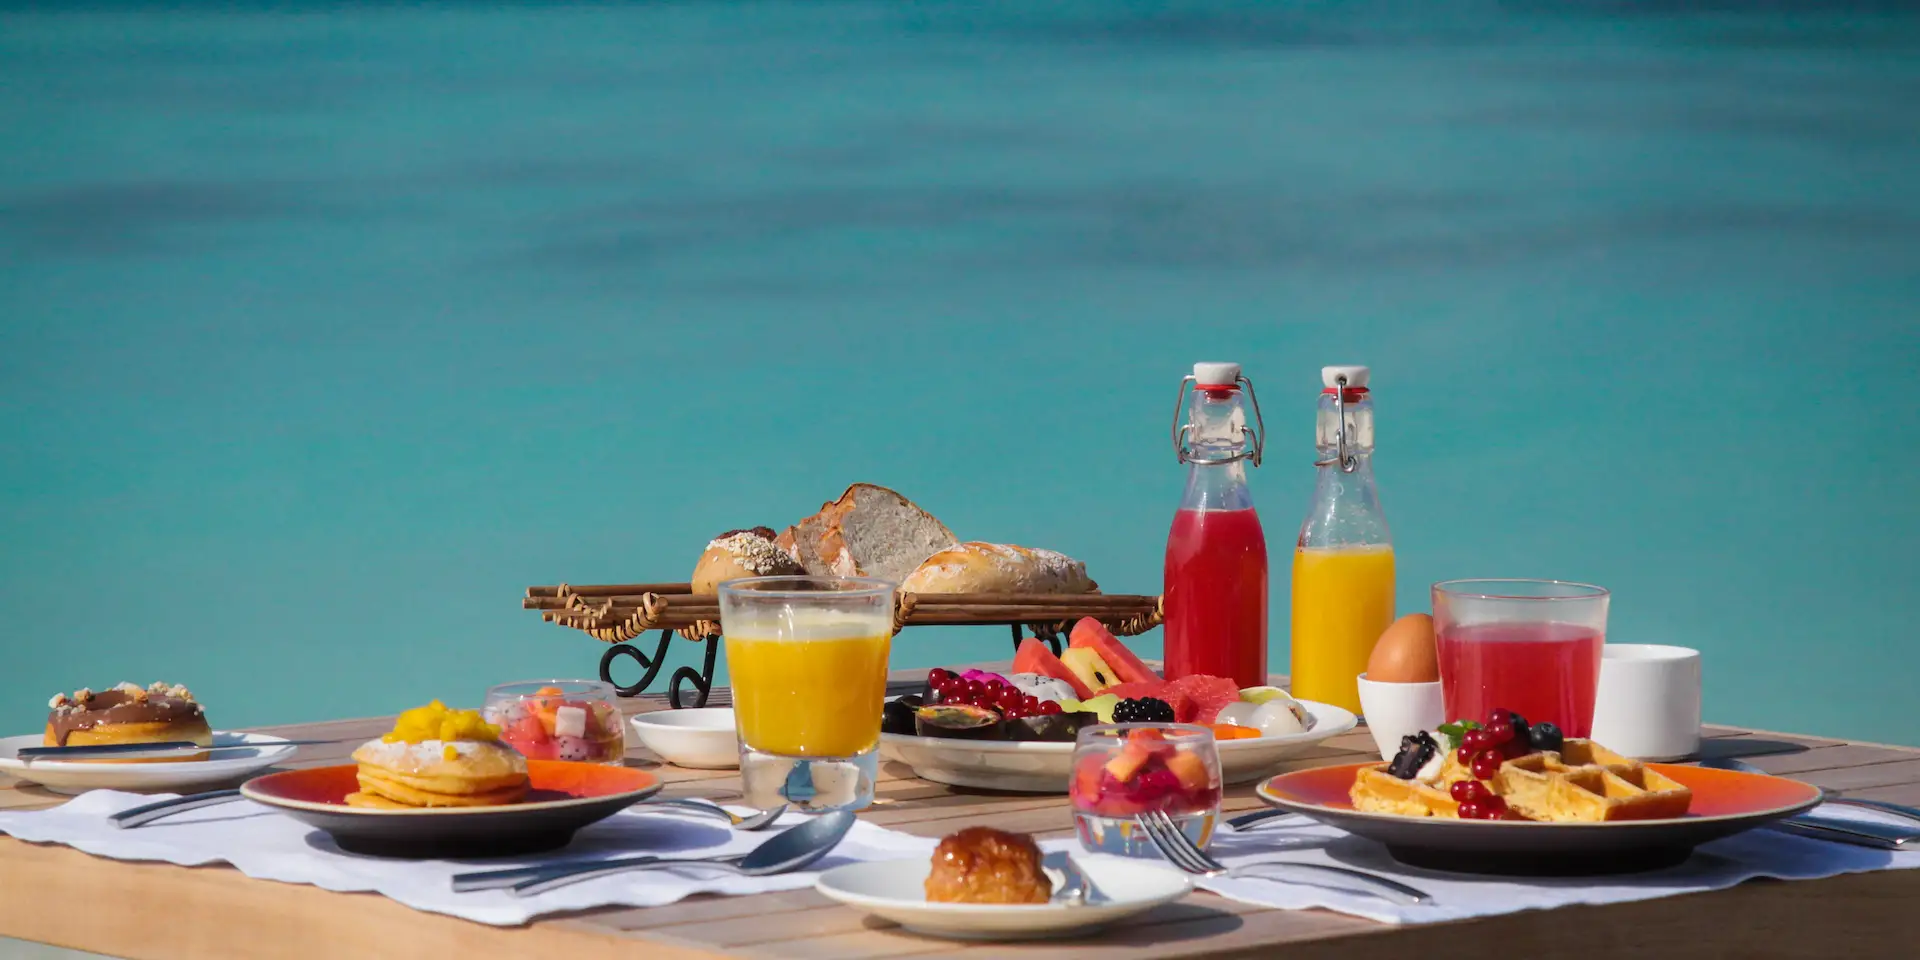
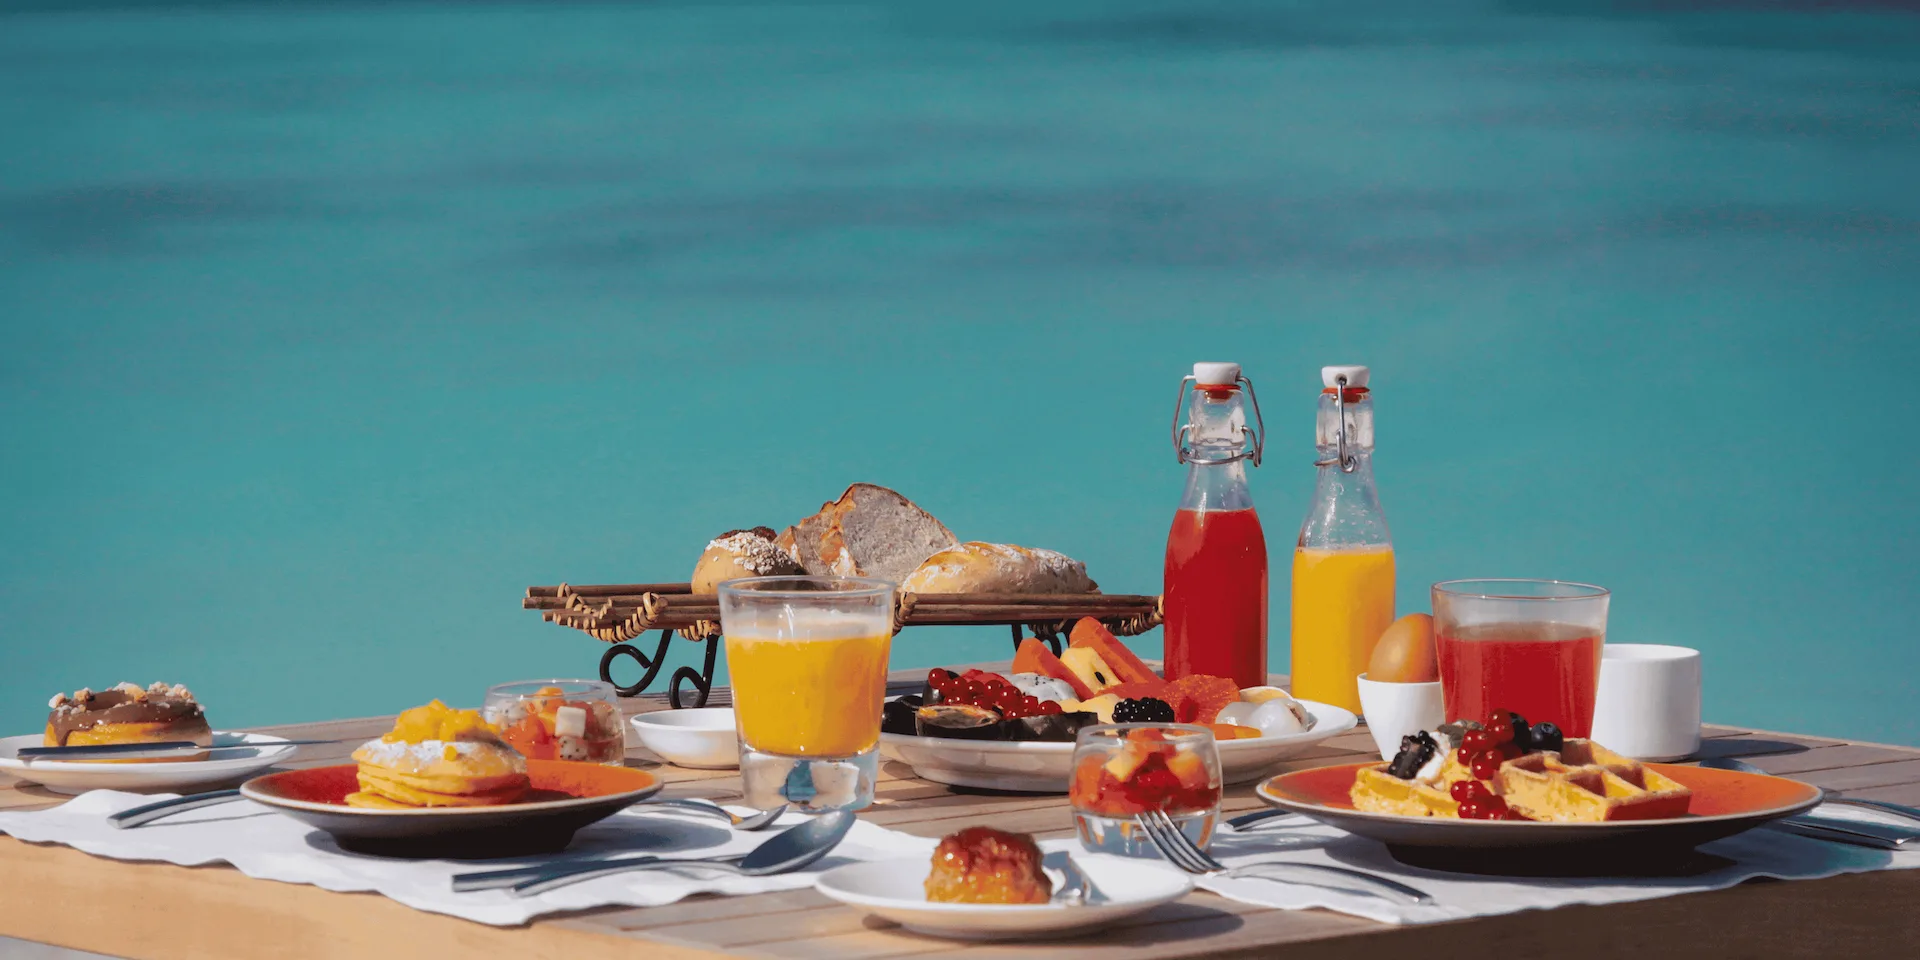
changes img

diff --git a/app/data/destinationData.ts b/app/data/destinationData.ts
@@ -343,7 +343,7 @@ export const DESTINATIONS: Destination[] = [
     slug: "japan",
     title: "Not Just Japan. Your Balance of Old and New.",
     subtitle: "Cultural Wonders",
-    heroImage: "/images/dest/Japan DP.webp",
+    heroImage: "/images/dest/Japan Cover.webp",
     description:
 "Japan feels vast, layered, impossible to decode alone. The language. The etiquette. The endless options. We translate it all.\n We design Japan journeys that balance ancient ritual with modern wonder. Private tea ceremonies in Kyoto temples tourists never find. Omakase at sushi counters where reservations are nearly impossible. Ryokans where your kaiseki meal is art. Guides who explain not just what you're seeing, but why it matters. Whether you're timing it for cherry blossoms, seeking autumn's fiery maples, traveling as a family, or going solo to truly absorb the culture—we pace it so you're present, not rushing. With every train ticket, restaurant reservation, and cultural nuance handled, you experience Japan's depth without the overwhelm.",    imgTextSection: {
       heading: "",
